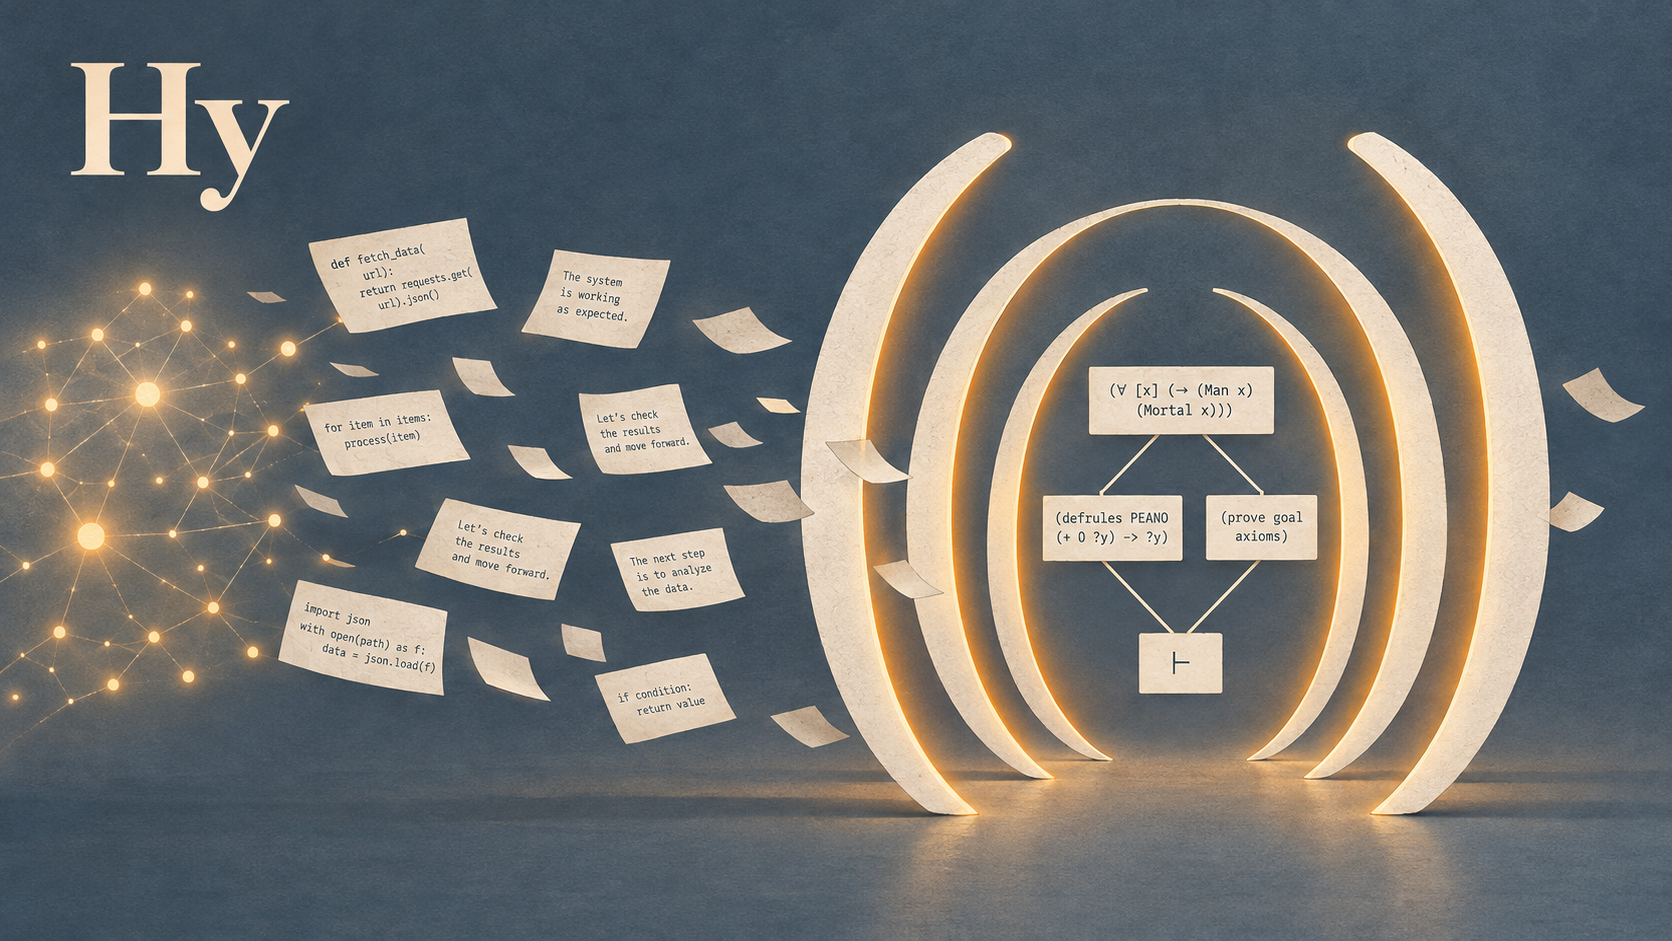
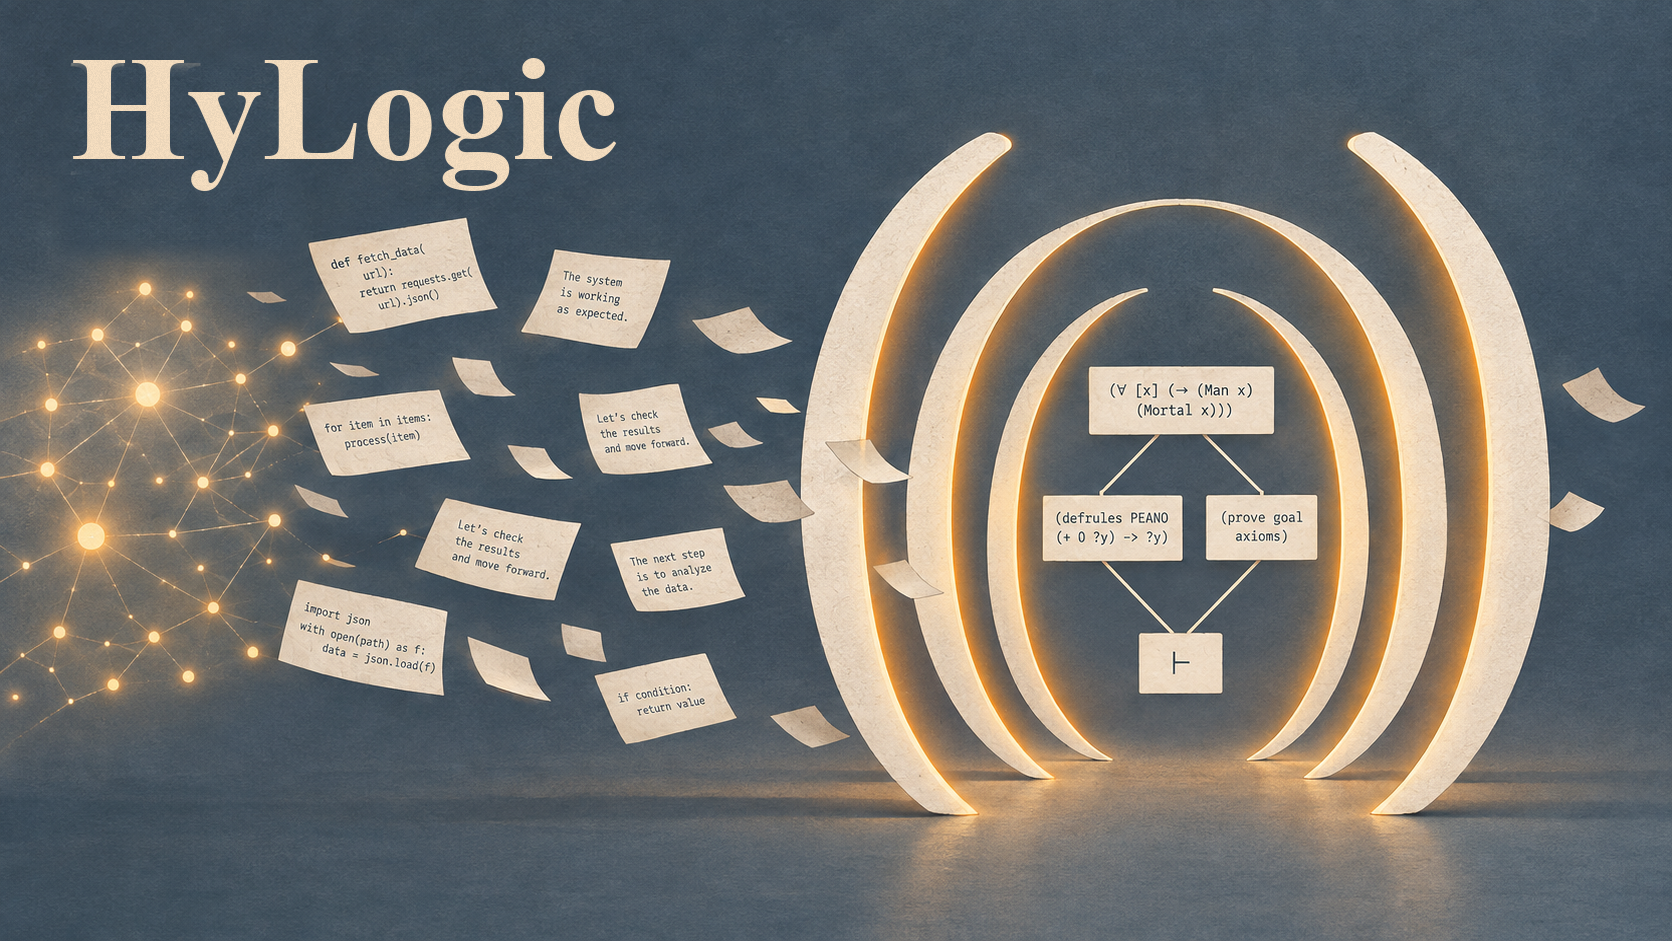
Article header: the lettering reads HyLogic

Changed region(s): [[0.0311, 0.0616, 0.3732, 0.2157]]

diff --git a/doc/substack/header_image_prompts.md b/doc/substack/header_image_prompts.md
@@ -17,3 +17,12 @@ Color palette: muted slate blue-grey background, off-white paper tones for the t
 
 Atmosphere: calm, precise, thoughtful. No people, no hands, no robots, no logos, no padlocks, no shields.
 ```
+
+## Lettering changed to "HyLogic"
+
+The generated image said "Hy". The lettering was replaced locally rather than
+by regenerating, which could have changed the correctly spelled code on the
+tiles: the old lettering was covered with background copied from the empty
+area to its right, with soft edges, and "HyLogic" was set in Times New Roman
+Bold in the lettering's cream colour (248, 224, 193), placed so that the
+descenders stay clear of the code tiles.
